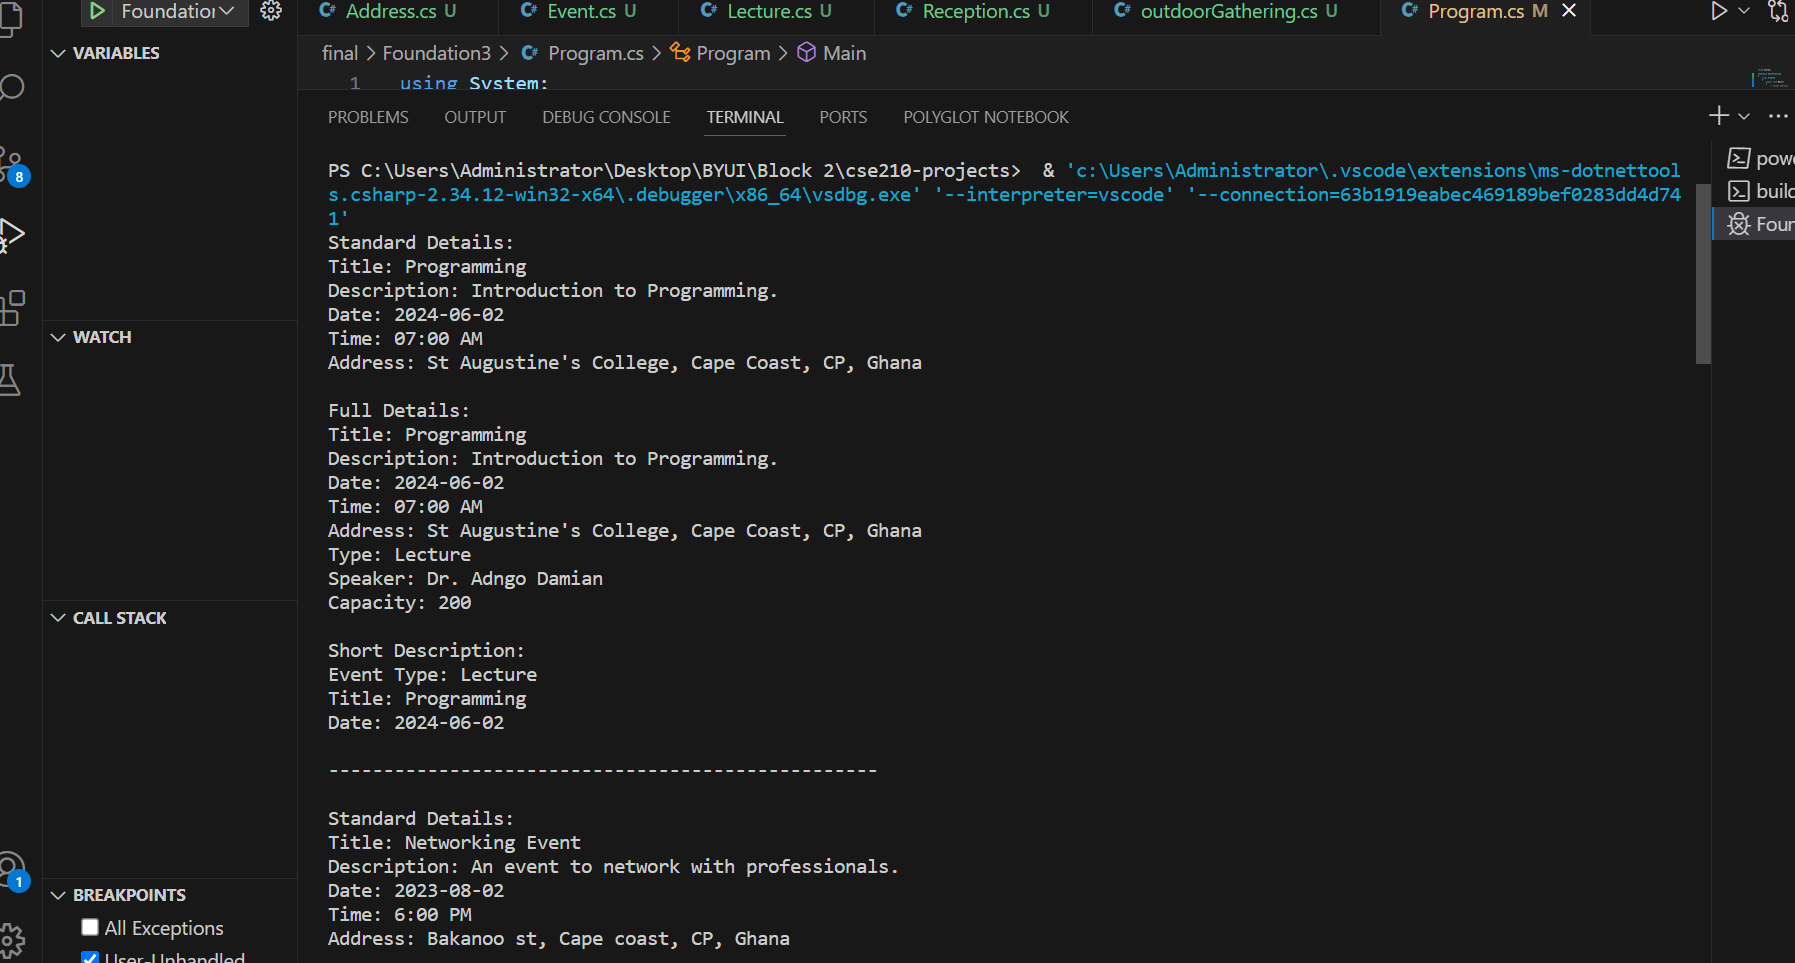
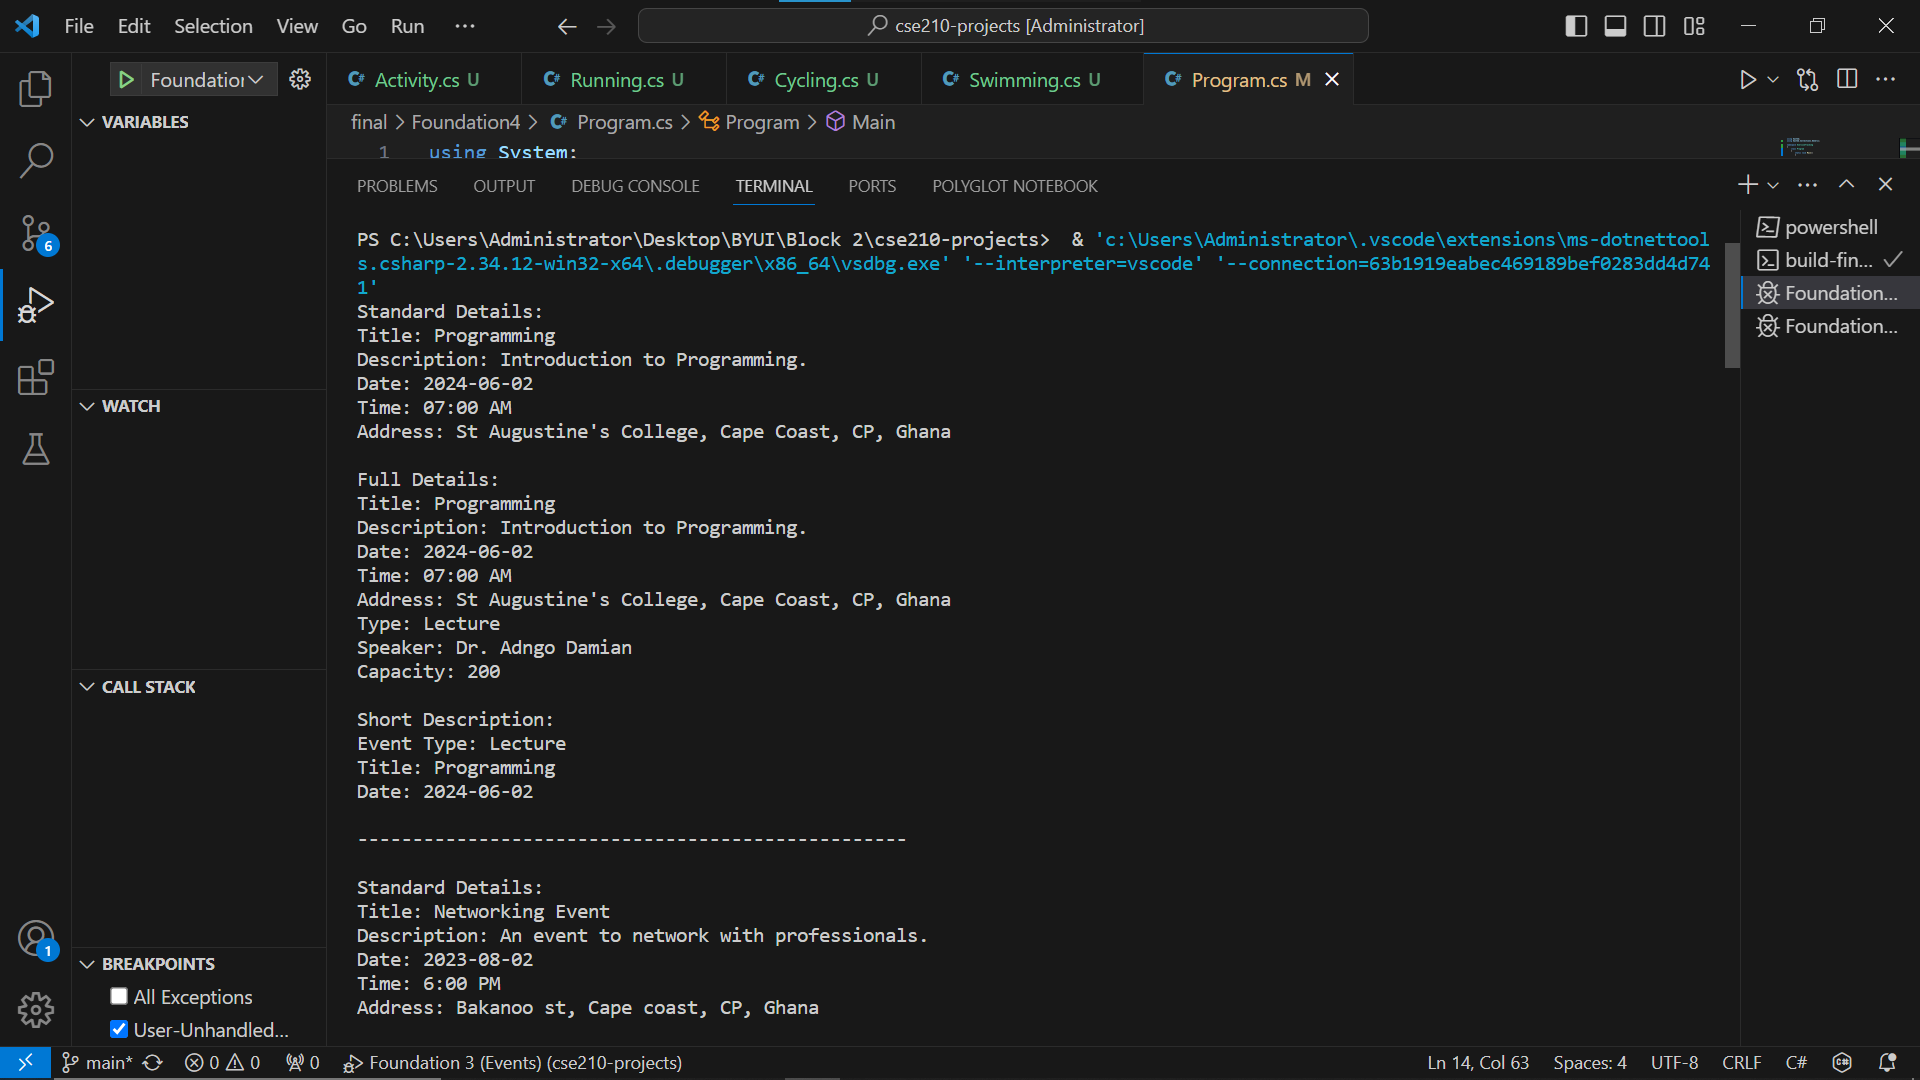
final 4

diff --git a/final/Foundation4/Activity.cs b/final/Foundation4/Activity.cs
@@ -1,0 +1,28 @@
+using System;
+
+namespace ExerciseTracking
+{
+    public abstract class Activity
+    {
+        private DateTime date;
+        private int lengthMinutes;
+
+        protected Activity(DateTime date, int lengthMinutes)
+        {
+            this.date = date;
+            this.lengthMinutes = lengthMinutes;
+        }
+
+        public DateTime Date => date;
+        public int LengthMinutes => lengthMinutes;
+
+        public abstract double GetDistance();
+        public abstract double GetSpeed();
+        public abstract double GetPace();
+
+        public virtual string GetSummary()
+        {
+            return $"{date:dd MMM yyyy} {this.GetType().Name} ({lengthMinutes} min): Distance {GetDistance():0.0} miles, Speed {GetSpeed():0.0} mph, Pace {GetPace():0.0} min per mile";
+        }
+    }
+}

diff --git a/final/Foundation4/Program.cs b/final/Foundation4/Program.cs
@@ -1,9 +1,24 @@
 using System;
+using System.Collections.Generic;
 
-class Program
+namespace ExerciseTracking
 {
-    static void Main(string[] args)
+    class Program
     {
-        Console.WriteLine("Hello Foundation4 World!");
+        static void Main()
+        {
+            List<Activity> activities = new List<Activity>
+            {
+                new Running(new DateTime(2024, 01, 2), 50, 1.0),
+                new Cycling(new DateTime(2024, 01, 3), 30, 15.0),
+                new Swimming(new DateTime(2024, 01, 4), 40, 40)
+            };
+
+            foreach (var activity in activities)
+            {
+                Console.WriteLine(activity.GetSummary());
+                Console.WriteLine();
+            }
+        }
     }
 }

diff --git a/final/Foundation4/Swimming.cs b/final/Foundation4/Swimming.cs
@@ -1,0 +1,28 @@
+namespace ExerciseTracking
+{
+    public class Swimming : Activity
+    {
+        private int laps;
+
+        public Swimming(DateTime date, int lengthMinutes, int laps)
+            : base(date, lengthMinutes)
+        {
+            this.laps = laps;
+        }
+
+        public override double GetDistance()
+        {
+            return (laps * 50 / 1000.0) * 0.62;
+        }
+
+        public override double GetSpeed()
+        {
+            return (GetDistance() / LengthMinutes) * 60;
+        }
+
+        public override double GetPace()
+        {
+            return LengthMinutes / GetDistance();
+        }
+    }
+}

diff --git a/final/Foundation4/Running.cs b/final/Foundation4/Running.cs
@@ -1,0 +1,25 @@
+namespace ExerciseTracking
+{
+    public class Running : Activity
+    {
+        private double distanceMiles;
+
+        public Running(DateTime date, int lengthMinutes, double distanceMiles)
+            : base(date, lengthMinutes)
+        {
+            this.distanceMiles = distanceMiles;
+        }
+
+        public override double GetDistance() => distanceMiles;
+
+        public override double GetSpeed()
+        {
+            return (distanceMiles / LengthMinutes) * 60;
+        }
+
+        public override double GetPace()
+        {
+            return LengthMinutes / distanceMiles;
+        }
+    }
+}

diff --git a/final/Foundation4/Cycling.cs b/final/Foundation4/Cycling.cs
@@ -1,0 +1,25 @@
+namespace ExerciseTracking
+{
+    public class Cycling : Activity
+    {
+        private double speedMph;
+
+        public Cycling(DateTime date, int lengthMinutes, double speedMph)
+            : base(date, lengthMinutes)
+        {
+            this.speedMph = speedMph;
+        }
+
+        public override double GetDistance()
+        {
+            return (speedMph * LengthMinutes) / 60;
+        }
+
+        public override double GetSpeed() => speedMph;
+
+        public override double GetPace()
+        {
+            return 60 / speedMph;
+        }
+    }
+}
